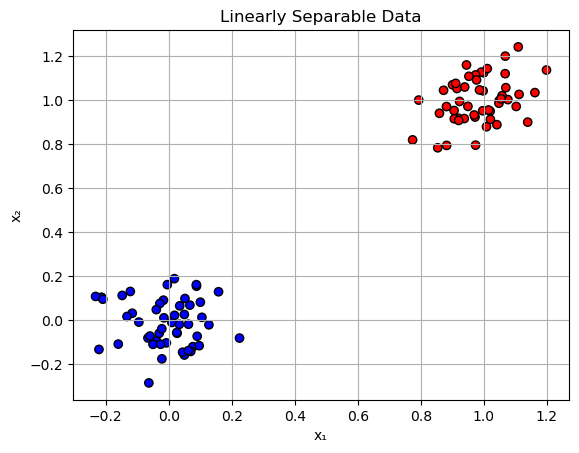
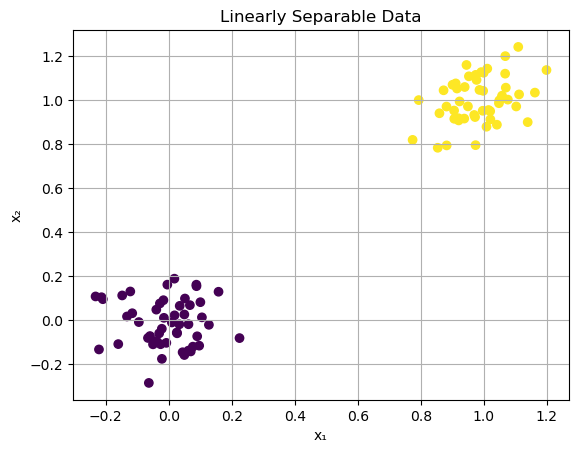
perceptron editing exiperemnt

diff --git a/docs/posts/perceptron/index.html b/docs/posts/perceptron/index.html
@@ -235,7 +235,7 @@ background-size: cover;
 <div id="cell-4" class="cell" data-execution_count="2">
 <div class="sourceCode cell-code" id="cb2"><pre class="sourceCode python code-with-copy"><code class="sourceCode python"><span id="cb2-1"><a href="#cb2-1" aria-hidden="true" tabindex="-1"></a><span class="kw">def</span> plot_data(X, y):</span>
 <span id="cb2-2"><a href="#cb2-2" aria-hidden="true" tabindex="-1"></a>    y_plot <span class="op">=</span> (y <span class="op">&gt;</span> <span class="dv">0</span>).<span class="bu">float</span>()  <span class="co"># Convert back to {0, 1} for coloring</span></span>
-<span id="cb2-3"><a href="#cb2-3" aria-hidden="true" tabindex="-1"></a>    plt.scatter(X[:, <span class="dv">0</span>], X[:, <span class="dv">1</span>], c<span class="op">=</span>y_plot, cmap<span class="op">=</span><span class="st">"bwr"</span>, edgecolors<span class="op">=</span><span class="st">'k'</span>)</span>
+<span id="cb2-3"><a href="#cb2-3" aria-hidden="true" tabindex="-1"></a>    plt.scatter(X[:, <span class="dv">0</span>], X[:, <span class="dv">1</span>], c<span class="op">=</span>y_plot)</span>
 <span id="cb2-4"><a href="#cb2-4" aria-hidden="true" tabindex="-1"></a>    plt.xlabel(<span class="st">"x₁"</span>)</span>
 <span id="cb2-5"><a href="#cb2-5" aria-hidden="true" tabindex="-1"></a>    plt.ylabel(<span class="st">"x₂"</span>)</span>
 <span id="cb2-6"><a href="#cb2-6" aria-hidden="true" tabindex="-1"></a>    plt.title(<span class="st">"Linearly Separable Data"</span>)</span>
@@ -254,7 +254,7 @@ background-size: cover;
 </section>
 <section id="train-using-the-perceptron-optimizer-minimal-training-loop" class="level2">
 <h2 class="anchored" data-anchor-id="train-using-the-perceptron-optimizer-minimal-training-loop">Train Using the Perceptron Optimizer (Minimal Training Loop)</h2>
-<div id="cell-6" class="cell" data-execution_count="13">
+<div id="cell-6" class="cell" data-execution_count="3">
 <div class="sourceCode cell-code" id="cb3"><pre class="sourceCode python code-with-copy"><code class="sourceCode python"><span id="cb3-1"><a href="#cb3-1" aria-hidden="true" tabindex="-1"></a><span class="im">from</span> perceptron <span class="im">import</span> Perceptron, PerceptronOptimizer</span>
 <span id="cb3-2"><a href="#cb3-2" aria-hidden="true" tabindex="-1"></a></span>
 <span id="cb3-3"><a href="#cb3-3" aria-hidden="true" tabindex="-1"></a>model <span class="op">=</span> Perceptron()</span>
@@ -275,21 +275,97 @@ background-size: cover;
 <span id="cb3-18"><a href="#cb3-18" aria-hidden="true" tabindex="-1"></a>    losses.append(loss.item())</span>
 <span id="cb3-19"><a href="#cb3-19" aria-hidden="true" tabindex="-1"></a></span></code><button title="Copy to Clipboard" class="code-copy-button"><i class="bi"></i></button></pre></div>
 <div class="cell-output cell-output-stdout">
-<pre><code>Epoch 1: loss = 0.4700
-Epoch 2: loss = 0.1500
-Epoch 3: loss = 0.1700
-Epoch 4: loss = 0.1900
-Epoch 5: loss = 0.1800
-Epoch 6: loss = 0.1900
-Epoch 7: loss = 0.1800
-Epoch 8: loss = 0.1900
-Epoch 9: loss = 0.1900
-Epoch 10: loss = 0.1900</code></pre>
+<pre><code>Epoch 1: loss = 0.0000
+Epoch 2: loss = 0.0000
+Epoch 3: loss = 0.0000
+Epoch 4: loss = 0.0000
+Epoch 5: loss = 0.0000
+Epoch 6: loss = 0.0000
+Epoch 7: loss = 0.0000
+Epoch 8: loss = 0.0000
+Epoch 9: loss = 0.0000
+Epoch 10: loss = 0.0000</code></pre>
 </div>
 </div>
 </section>
 <section id="expirements" class="level1">
 <h1>Expirements</h1>
+<p>Using 2d data like the data </p>
+<div id="cell-8" class="cell" data-execution_count="4">
+<div class="sourceCode cell-code" id="cb5"><pre class="sourceCode python code-with-copy"><code class="sourceCode python"><span id="cb5-1"><a href="#cb5-1" aria-hidden="true" tabindex="-1"></a><span class="im">from</span> sklearn.datasets <span class="im">import</span> make_blobs</span>
+<span id="cb5-2"><a href="#cb5-2" aria-hidden="true" tabindex="-1"></a><span class="im">import</span> torch</span>
+<span id="cb5-3"><a href="#cb5-3" aria-hidden="true" tabindex="-1"></a></span>
+<span id="cb5-4"><a href="#cb5-4" aria-hidden="true" tabindex="-1"></a><span class="co"># Generate two separable clusters</span></span>
+<span id="cb5-5"><a href="#cb5-5" aria-hidden="true" tabindex="-1"></a>X_np, y_np <span class="op">=</span> make_blobs(n_samples<span class="op">=</span><span class="dv">100</span>, n_features<span class="op">=</span><span class="dv">2</span>, centers<span class="op">=</span>[[<span class="op">-</span><span class="fl">1.5</span>, <span class="op">-</span><span class="fl">1.5</span>], [<span class="fl">1.5</span>, <span class="fl">1.5</span>]], random_state<span class="op">=</span><span class="dv">42</span>)</span>
+<span id="cb5-6"><a href="#cb5-6" aria-hidden="true" tabindex="-1"></a></span>
+<span id="cb5-7"><a href="#cb5-7" aria-hidden="true" tabindex="-1"></a><span class="co"># Convert to PyTorch tensors</span></span>
+<span id="cb5-8"><a href="#cb5-8" aria-hidden="true" tabindex="-1"></a>X <span class="op">=</span> torch.tensor(X_np, dtype<span class="op">=</span>torch.float32)</span>
+<span id="cb5-9"><a href="#cb5-9" aria-hidden="true" tabindex="-1"></a>y <span class="op">=</span> torch.tensor(y_np, dtype<span class="op">=</span>torch.float32)  <span class="co"># Note: still in {0,1}</span></span></code><button title="Copy to Clipboard" class="code-copy-button"><i class="bi"></i></button></pre></div>
+</div>
+<p>Plotting our data</p>
+<div id="cell-10" class="cell" data-execution_count="5">
+<div class="sourceCode cell-code" id="cb6"><pre class="sourceCode python code-with-copy"><code class="sourceCode python"><span id="cb6-1"><a href="#cb6-1" aria-hidden="true" tabindex="-1"></a><span class="co"># Plot the data</span></span>
+<span id="cb6-2"><a href="#cb6-2" aria-hidden="true" tabindex="-1"></a>plt.figure(figsize<span class="op">=</span>(<span class="dv">6</span>, <span class="dv">5</span>))</span>
+<span id="cb6-3"><a href="#cb6-3" aria-hidden="true" tabindex="-1"></a>plt.scatter(X_np[:, <span class="dv">0</span>], X_np[:, <span class="dv">1</span>], c<span class="op">=</span>y_np)</span>
+<span id="cb6-4"><a href="#cb6-4" aria-hidden="true" tabindex="-1"></a>plt.xlabel(<span class="st">"feature X"</span>)</span>
+<span id="cb6-5"><a href="#cb6-5" aria-hidden="true" tabindex="-1"></a>plt.ylabel(<span class="st">"Feature Y"</span>)</span>
+<span id="cb6-6"><a href="#cb6-6" aria-hidden="true" tabindex="-1"></a>plt.title(<span class="st">"2D Data that is Linearly Separable "</span>)</span>
+<span id="cb6-7"><a href="#cb6-7" aria-hidden="true" tabindex="-1"></a>plt.show()</span></code><button title="Copy to Clipboard" class="code-copy-button"><i class="bi"></i></button></pre></div>
+<div class="cell-output cell-output-display">
+<div>
+<figure class="figure">
+<p><img src="index_files/figure-html/cell-6-output-1.png" class="img-fluid figure-img"></p>
+</figure>
+</div>
+</div>
+</div>
+<p>Training loops and plotting loss on updates</p>
+<div id="cell-12" class="cell" data-execution_count="6">
+<div class="sourceCode cell-code" id="cb7"><pre class="sourceCode python code-with-copy"><code class="sourceCode python"><span id="cb7-1"><a href="#cb7-1" aria-hidden="true" tabindex="-1"></a><span class="im">from</span> perceptron <span class="im">import</span> Perceptron, PerceptronOptimizer</span>
+<span id="cb7-2"><a href="#cb7-2" aria-hidden="true" tabindex="-1"></a></span>
+<span id="cb7-3"><a href="#cb7-3" aria-hidden="true" tabindex="-1"></a>torch.manual_seed(<span class="dv">1</span>)</span>
+<span id="cb7-4"><a href="#cb7-4" aria-hidden="true" tabindex="-1"></a></span>
+<span id="cb7-5"><a href="#cb7-5" aria-hidden="true" tabindex="-1"></a>p <span class="op">=</span> Perceptron()</span>
+<span id="cb7-6"><a href="#cb7-6" aria-hidden="true" tabindex="-1"></a>opt <span class="op">=</span> PerceptronOptimizer(p)</span>
+<span id="cb7-7"><a href="#cb7-7" aria-hidden="true" tabindex="-1"></a></span>
+<span id="cb7-8"><a href="#cb7-8" aria-hidden="true" tabindex="-1"></a>loss_vec <span class="op">=</span> []</span>
+<span id="cb7-9"><a href="#cb7-9" aria-hidden="true" tabindex="-1"></a>max_steps <span class="op">=</span> <span class="dv">1000</span></span>
+<span id="cb7-10"><a href="#cb7-10" aria-hidden="true" tabindex="-1"></a>n <span class="op">=</span> X.shape[<span class="dv">0</span>]</span>
+<span id="cb7-11"><a href="#cb7-11" aria-hidden="true" tabindex="-1"></a></span>
+<span id="cb7-12"><a href="#cb7-12" aria-hidden="true" tabindex="-1"></a><span class="cf">for</span> _ <span class="kw">in</span> <span class="bu">range</span>(max_steps):</span>
+<span id="cb7-13"><a href="#cb7-13" aria-hidden="true" tabindex="-1"></a>    i <span class="op">=</span> torch.randint(n, size<span class="op">=</span>(<span class="dv">1</span>,))</span>
+<span id="cb7-14"><a href="#cb7-14" aria-hidden="true" tabindex="-1"></a>    x_i <span class="op">=</span> X[i]</span>
+<span id="cb7-15"><a href="#cb7-15" aria-hidden="true" tabindex="-1"></a>    y_i <span class="op">=</span> y[i]</span>
+<span id="cb7-16"><a href="#cb7-16" aria-hidden="true" tabindex="-1"></a></span>
+<span id="cb7-17"><a href="#cb7-17" aria-hidden="true" tabindex="-1"></a>    <span class="co"># check individual point loss</span></span>
+<span id="cb7-18"><a href="#cb7-18" aria-hidden="true" tabindex="-1"></a>    single_loss <span class="op">=</span> p.loss(x_i, y_i).item()</span>
+<span id="cb7-19"><a href="#cb7-19" aria-hidden="true" tabindex="-1"></a>    </span>
+<span id="cb7-20"><a href="#cb7-20" aria-hidden="true" tabindex="-1"></a>    <span class="cf">if</span> single_loss <span class="op">&gt;</span> <span class="dv">0</span>:</span>
+<span id="cb7-21"><a href="#cb7-21" aria-hidden="true" tabindex="-1"></a>        opt.step(x_i, y_i)</span>
+<span id="cb7-22"><a href="#cb7-22" aria-hidden="true" tabindex="-1"></a>        total_loss <span class="op">=</span> p.loss(X, y).item()</span>
+<span id="cb7-23"><a href="#cb7-23" aria-hidden="true" tabindex="-1"></a>        loss_vec.append(total_loss)</span>
+<span id="cb7-24"><a href="#cb7-24" aria-hidden="true" tabindex="-1"></a>    </span>
+<span id="cb7-25"><a href="#cb7-25" aria-hidden="true" tabindex="-1"></a>    <span class="cf">if</span> p.loss(X, y).item() <span class="op">==</span> <span class="dv">0</span>:</span>
+<span id="cb7-26"><a href="#cb7-26" aria-hidden="true" tabindex="-1"></a>        <span class="cf">break</span></span></code><button title="Copy to Clipboard" class="code-copy-button"><i class="bi"></i></button></pre></div>
+</div>
+<p>visualizing the loss</p>
+<div id="cell-14" class="cell" data-execution_count="7">
+<div class="sourceCode cell-code" id="cb8"><pre class="sourceCode python code-with-copy"><code class="sourceCode python"><span id="cb8-1"><a href="#cb8-1" aria-hidden="true" tabindex="-1"></a>plt.figure(figsize<span class="op">=</span>(<span class="dv">8</span>, <span class="dv">6</span>))</span>
+<span id="cb8-2"><a href="#cb8-2" aria-hidden="true" tabindex="-1"></a>plt.plot(loss_vec, linewidth<span class="op">=</span><span class="dv">2</span>)</span>
+<span id="cb8-3"><a href="#cb8-3" aria-hidden="true" tabindex="-1"></a>plt.scatter(<span class="bu">range</span>(<span class="bu">len</span>(loss_vec)), loss_vec, color<span class="op">=</span><span class="st">"slategrey"</span>)</span>
+<span id="cb8-4"><a href="#cb8-4" aria-hidden="true" tabindex="-1"></a>plt.xlabel(<span class="st">"Perceptron Iteration (Updates Only)"</span>)</span>
+<span id="cb8-5"><a href="#cb8-5" aria-hidden="true" tabindex="-1"></a>plt.ylabel(<span class="st">"Loss"</span>)</span>
+<span id="cb8-6"><a href="#cb8-6" aria-hidden="true" tabindex="-1"></a>plt.title(<span class="st">"Loss vs Perceptron Updates (Linearly Separable Data)"</span>)</span>
+<span id="cb8-7"><a href="#cb8-7" aria-hidden="true" tabindex="-1"></a>plt.grid(<span class="va">True</span>)</span>
+<span id="cb8-8"><a href="#cb8-8" aria-hidden="true" tabindex="-1"></a>plt.show()</span></code><button title="Copy to Clipboard" class="code-copy-button"><i class="bi"></i></button></pre></div>
+<div class="cell-output cell-output-display">
+<div>
+<figure class="figure">
+<p><img src="index_files/figure-html/cell-8-output-1.png" class="img-fluid figure-img"></p>
+</figure>
+</div>
+</div>
+</div>
 
 
 </section>

diff --git a/docs/index.html b/docs/index.html
@@ -223,7 +223,7 @@ window.Quarto = {
 
 <div class="quarto-listing quarto-listing-container-default" id="listing-listing">
 <div class="list quarto-listing-default">
-<div class="quarto-post image-right" data-index="0" data-listing-date-sort="1743566400000" data-listing-file-modified-sort="1743647333883" data-listing-date-modified-sort="NaN" data-listing-reading-time-sort="1" data-listing-word-count-sort="183">
+<div class="quarto-post image-right" data-index="0" data-listing-date-sort="1743566400000" data-listing-file-modified-sort="1743651027353" data-listing-date-modified-sort="NaN" data-listing-reading-time-sort="1" data-listing-word-count-sort="199">
 <div class="thumbnail">
 <p><a href="./posts/perceptron/index.html" class="no-external"></a></p><a href="./posts/perceptron/index.html" class="no-external">
 <p><img loading="lazy" src="./posts/perceptron/image.jpg" class="thumbnail-image"></p>

diff --git a/posts/perceptron/perceptron.py b/posts/perceptron/perceptron.py
@@ -51,26 +51,39 @@ class Perceptron(LinearModel):
         return ((s * y_) <= 0).float().mean()
 
     def grad(self, X, y):
-        """
-       Computes the perceptron gradient for each single example.
-        Arguments:
-        X (torch.Tensor): Single feature vector of shape (p,) or (1, p)
-        y (torch.Tensor): Single label in {0, 1} or {-1, 1}
-        Returns:
-        update (torch.Tensor): Gradient vector for weight update
-        """
         if len(X.shape) == 2:
-            X = X.squeeze(0)  # make sure the shape is (p,)
-        y_ = y if y in (-1, 1) else 2 * y - 1
+            X = X.squeeze(0)  # shape: (p,)
+        if isinstance(y, torch.Tensor):
+            y = y.item()
+        y_ = y if y in (-1, 1) else 2 * y - 1  # convert to ±1 if in {0, 1}
 
-        # Compute score: s = <w, x>
-        s = torch.dot(self.w, X)
-
-        # If misclassified, return update vector
+        s = torch.dot(self.w, X)  # ⟨w, x⟩
+        
         if s * y_ < 0:
             return -y_ * X
         else:
-            return torch.zeros_like(self.w)  # No update needed if classified correctly
+            return torch.zeros_like(self.w)
+    # def grad(self, X, y):
+    #     """
+    #    Computes the perceptron gradient for each single example.
+    #     Arguments:
+    #     X (torch.Tensor): Single feature vector of shape (p,) or (1, p)
+    #     y (torch.Tensor): Single label in {0, 1} or {-1, 1}
+    #     Returns:
+    #     update (torch.Tensor): Gradient vector for weight update
+    #     """
+    #     if len(X.shape) == 2:
+    #         X = X.squeeze(0)  # make sure the shape is (p,)
+    #     y_ = y if y in (-1, 1) else 2 * y - 1
+
+    #     # Compute score: s = <w, x>
+    #     s = torch.dot(self.w, X)
+
+    #     # If misclassified, return update vector
+    #     if s * y_ < 0:
+    #         return -y_ * X
+    #     else:
+    #         return torch.zeros_like(self.w)  # No update needed if classified correctly
 
 class PerceptronOptimizer:
     def __init__(self, model):
@@ -82,17 +95,19 @@ class PerceptronOptimizer:
 
     def step(self, X, y):
         """
-        does one step of the Perceptron learning rule:
-        we compute the current loss, then the gradient. Then update weights: w = w - grad
-
-        Arguments:
-            X (torch.Tensor): Feature matrix (n, p)
-            y (torch.Tensor): Labels in {0, 1} or {-1, 1}, shape (n,)
-
-        Returns:
-            loss (torch.Tensor): Misclassification rate 
+        Does one step of the Perceptron learning rule:
+        Sample one point (xi, yi), compute loss and gradient, update w.
         """
+        # Choose a single random index
+        idx = torch.randint(0, X.size(0), (1,)).item()
+        xi = X[idx]
+        yi = y[idx]
+
+        # Compute loss (optional here, can be tracked externally)
         loss = self.model.loss(X, y)
-        grad = self.model.grad(X, y)
+
+        # Compute and apply gradient
+        grad = self.model.grad(xi, yi)
         self.model.w = self.model.w - grad
+
         return loss
